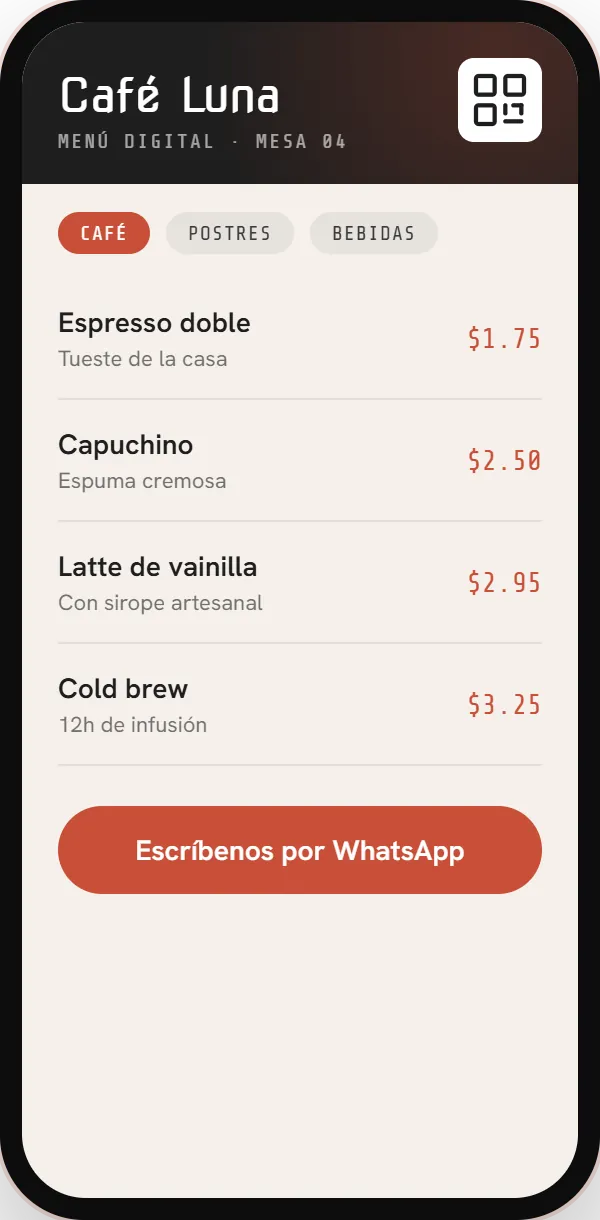
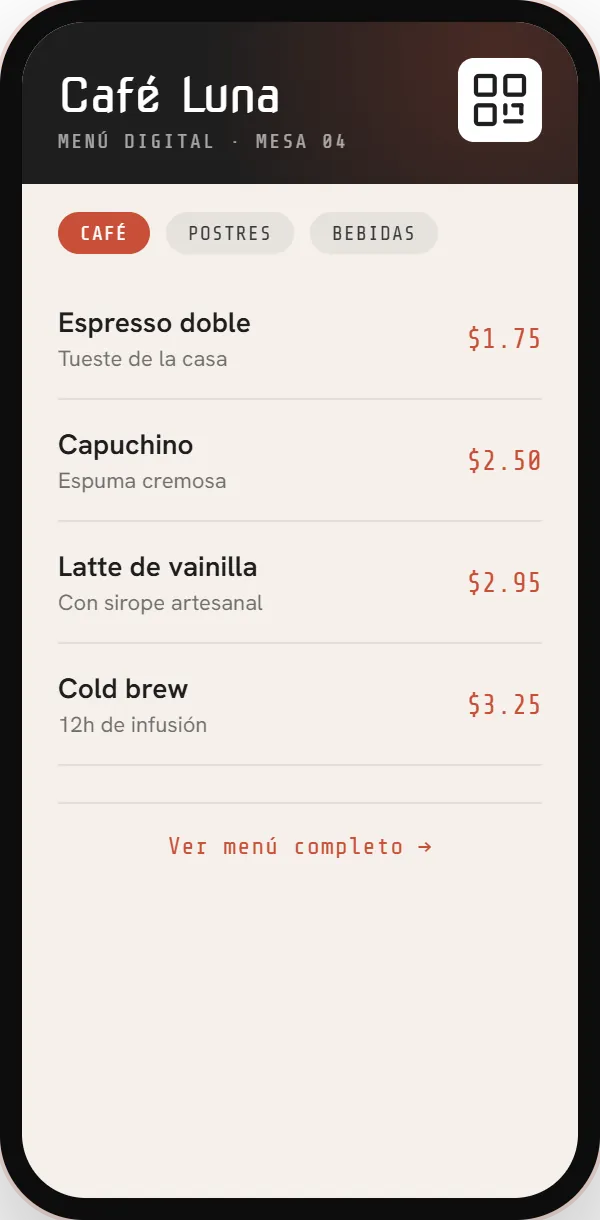
Mockups informativos: menú QR no sugiere ordenar/pedir
- Teléfono: botón 'Ordenar/WhatsApp' → enlace pasivo 'Ver menú completo →' (ver ≠ ordenar).
- Navegador: card 'Pedidos' → 'WhatsApp · Escríbenos directo' (contacto). Fila: Menú QR / Ubicación / WhatsApp.
- Regenerados mock-phone/mock-browser .webp (q80). alt actualizado.

Changed region(s): [[0.09, 0.6541, 0.9, 0.7475]]

diff --git a/index.html b/index.html
@@ -2385,7 +2385,7 @@
         <span class="showcase__cap" aria-hidden="true">[ ejemplos ilustrativos ]</span>
         <div class="showcase__devices">
           <img class="showcase__browser" src="mock-browser.webp" width="620" height="420" loading="lazy"
-               alt="Ejemplo ilustrativo: landing de una cafetería con menú, ubicación y botón de WhatsApp" />
+               alt="Ejemplo ilustrativo: landing de una cafetería con menú, ubicación y contacto por WhatsApp" />
           <img class="showcase__phone" src="mock-phone.webp" width="300" height="610" loading="lazy"
                alt="Ejemplo ilustrativo: menú digital QR en el teléfono, para ver el menú al instante" />
         </div>
